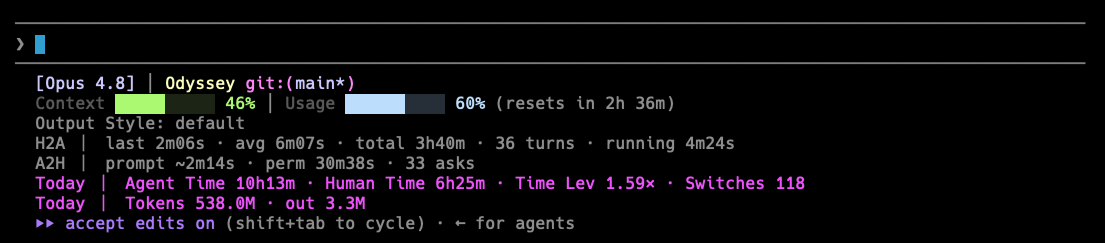
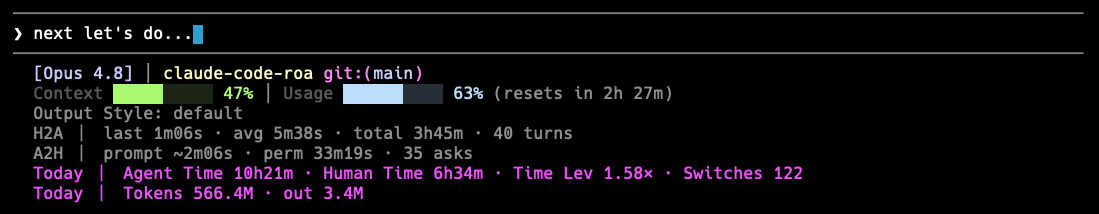
README: swap in clean repo-context statusline screenshot (no vault name)

Changed region(s): [[0.0309, 0.3084, 0.7425, 0.9533], [0.0, 0.0561, 0.99, 0.2804]]

diff --git a/README.md b/README.md
@@ -14,8 +14,8 @@ no account, all local.
 (identity, context/usage); everything below — Output Style, H2A, A2H, and the two
 `Today` bands — is ROA, appended beneath it.*
 
-> A `Time Lev` of 1.59× means that for every hour of your active attention, you
-> pulled 1.59 agent-hours of work — because parallel sessions add up.
+> A `Time Lev` of 1.58× means that for every hour of your active attention, you
+> pulled 1.58 agent-hours of work — because parallel sessions add up.
 
 ## What it measures
 